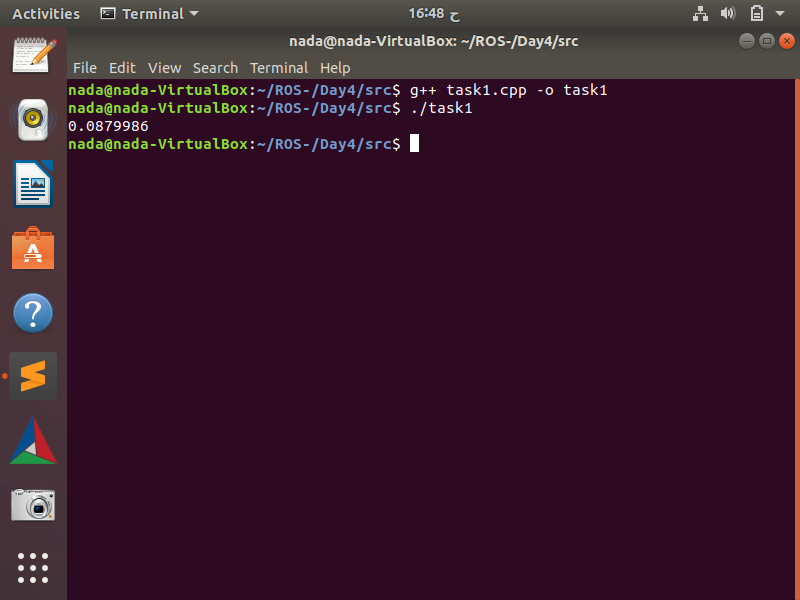
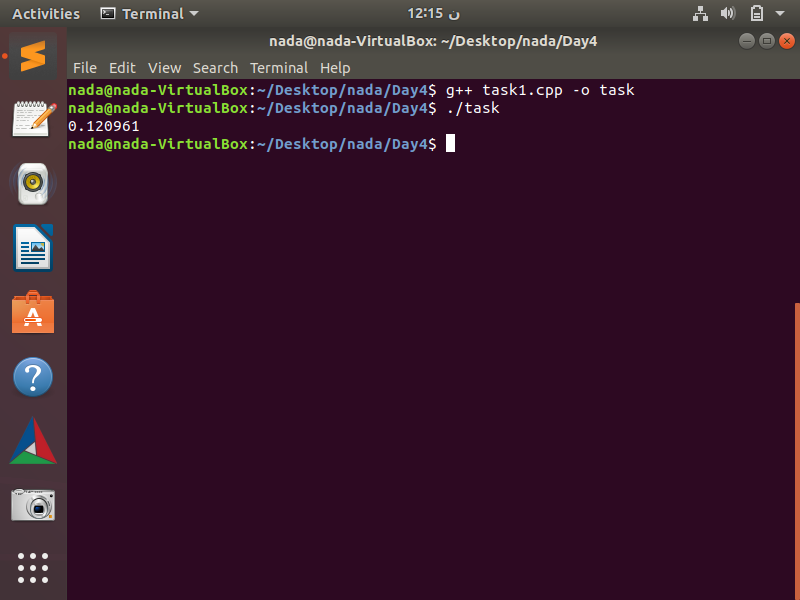
Gaussian Equation

diff --git a/Day4/src/task1.cpp b/Day4/src/task1.cpp
@@ -4,11 +4,10 @@ using namespace std;
 double f(double mu, double sigma2, double x)
 {
 double pie = 22.0 / 7.0;
-double prob = (1/(sigma2*sqrt(2* pie))* exp((pow(((x - mu) / sigma2), 2) * -0.5)));
-
+double prob = 1.0/sqrt(sigma2) * pow(2 * pie, -0.5) * exp(-0.5 * pow( x - mu, 2) * 1.0/sigma2);
 return prob;
 }
 int main() {
 cout << f(10.0, 4.0, 8.0) <<endl;
 return 0;
-}
+};
